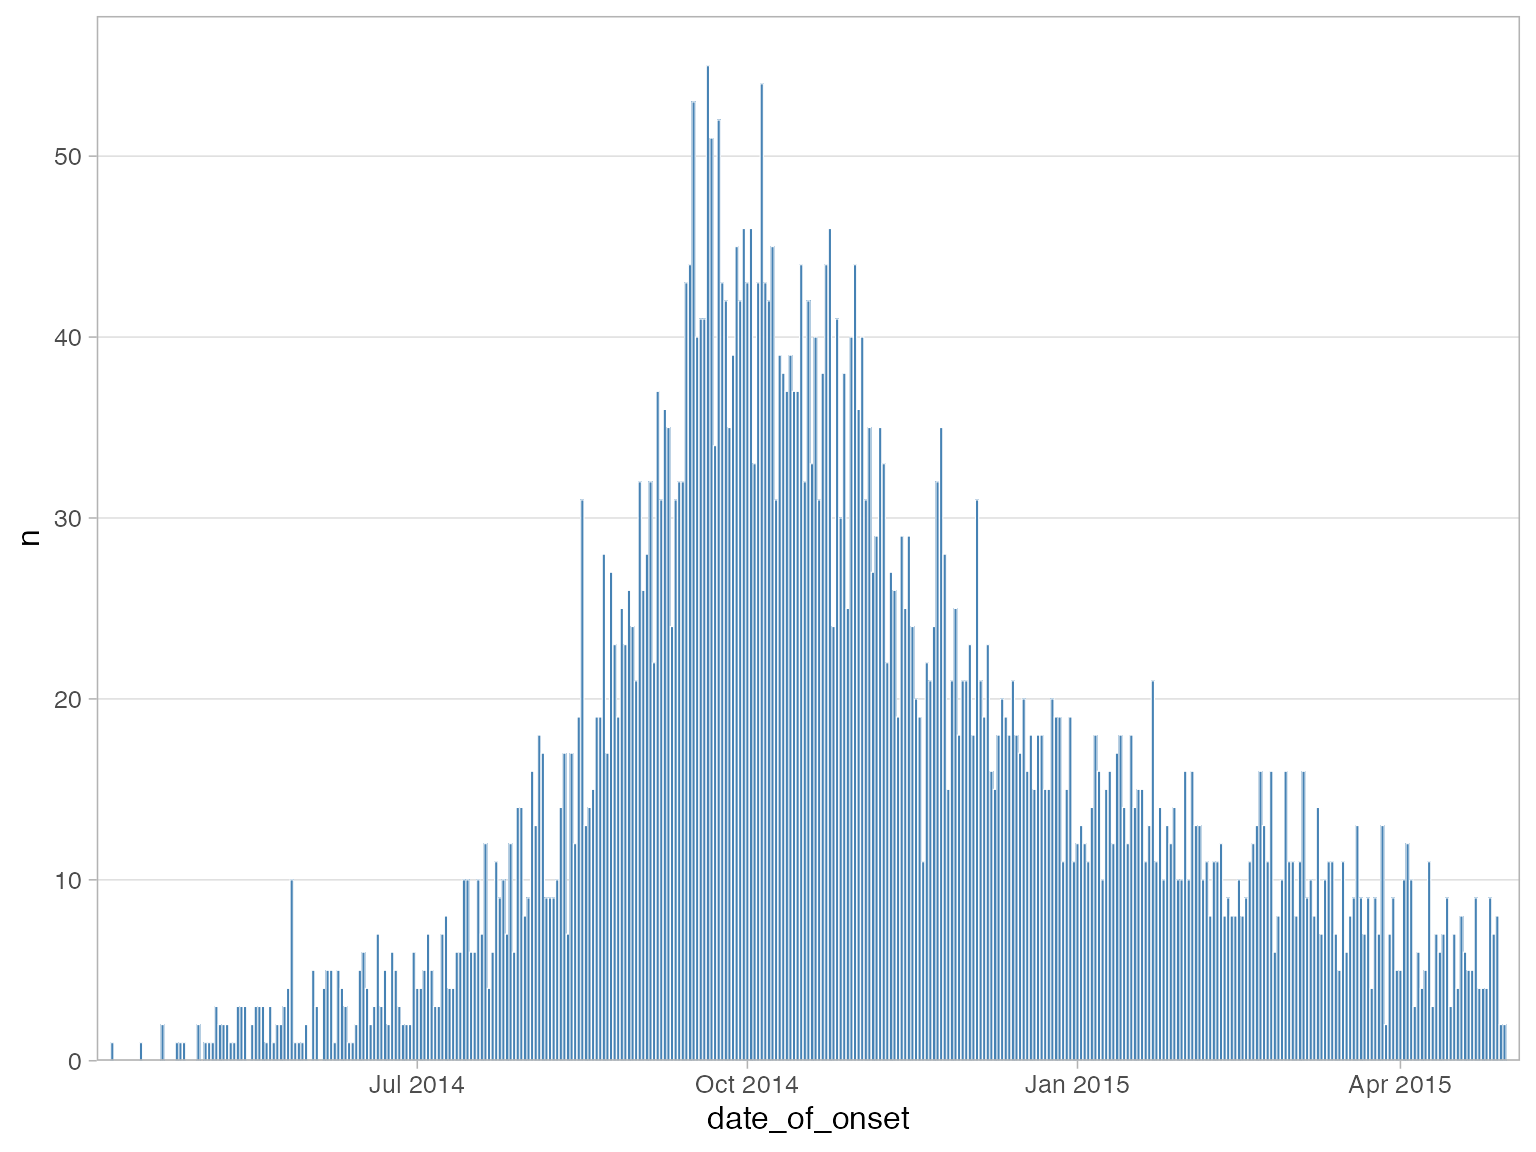
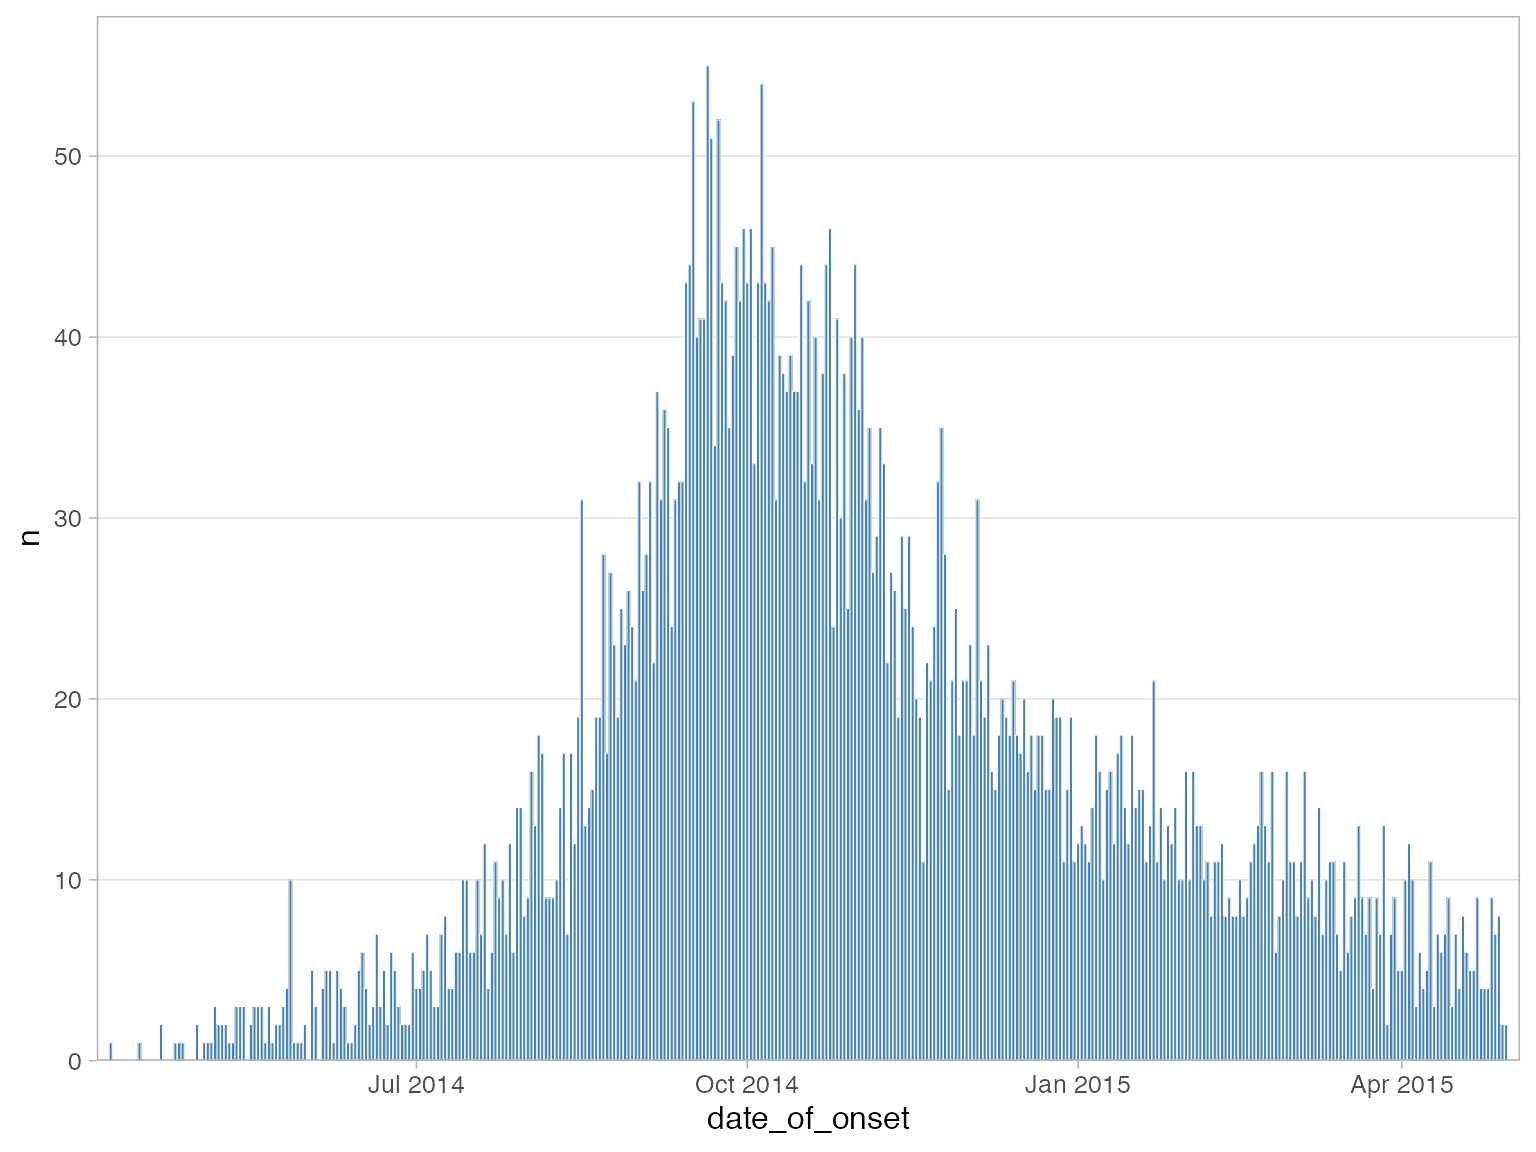
update epicurve vignette

Changed region(s): [[0.5625, 0.375, 1.0, 0.9688], [0.0938, 0.0938, 0.5, 0.9688]]

diff --git a/docs/articles/epicurves.html b/docs/articles/epicurves.html
@@ -127,44 +127,23 @@
   date_col <span class="op">=</span> <span class="va">date_of_onset</span>
 <span class="op">)</span></code></pre></div>
 <p><img src="epicurves_files/figure-html/unnamed-chunk-2-1.png" width="768"></p>
-<p>A note of default date labels: commonly epidemic curves are plotted by week, not day. As such, default date labels are set as ISO Week (00-53) at an interval of 2 weeks. This default is not appropriate for the daily data we have supplied, but we can fix this with built-in function arguments…</p>
-<p>Firstly we can add a <code>floor_date_week = TRUE</code> argument to group all dates to the first monday of the ISO Week they fall in (this is required for ggplot weekly tick marks to align properly with the columns). We also add some more informative axis labels:</p>
+<div id="working-with-dates-and-weeks" class="section level3">
+<h3 class="hasAnchor">
+<a href="#working-with-dates-and-weeks" class="anchor"></a>Working with dates and weeks</h3>
+<p>Commonly incidence is plotted by week, not day. Here we have daily data but we can ask <code>plot_epicurve</code> to re-calculate incidence by week instead by setting <code>floor_date_week = TRUE</code>. You can choose the first day of the week with <code>week_start</code> (defaults to 1 (Monday)). Finally we can set date axis labels to the week number rather than date.</p>
 <div class="sourceCode" id="cb4"><pre class="downlit sourceCode r">
 <code class="sourceCode R"><span class="fu"><a href="../reference/plot_epicurve.html">plot_epicurve</a></span><span class="op">(</span>
   <span class="va">df_ebola</span>, 
   date_col <span class="op">=</span> <span class="va">date_of_onset</span>, 
   floor_date_week <span class="op">=</span> <span class="cn">TRUE</span>, 
+  week_start <span class="op">=</span> <span class="fl">1</span>,
   label_weeks <span class="op">=</span> <span class="cn">TRUE</span>,
   date_lab <span class="op">=</span> <span class="st">"Week of onset"</span>, 
   y_lab <span class="op">=</span> <span class="st">"Incidence"</span>
 <span class="op">)</span></code></pre></div>
 <p><img src="epicurves_files/figure-html/unnamed-chunk-3-1.png" width="768"></p>
-<p>We can change the date break intervals with the <code>date_breaks</code> argument:</p>
-<div class="sourceCode" id="cb5"><pre class="downlit sourceCode r">
-<code class="sourceCode R"><span class="fu"><a href="../reference/plot_epicurve.html">plot_epicurve</a></span><span class="op">(</span>
-  <span class="va">df_ebola</span>, 
-  date_col <span class="op">=</span> <span class="va">date_of_onset</span>, 
-  floor_date_week <span class="op">=</span> <span class="cn">TRUE</span>, 
-  date_breaks <span class="op">=</span> <span class="st">"3 weeks"</span>, 
-  date_lab <span class="op">=</span> <span class="st">"Week of onset"</span>, 
-  y_lab <span class="op">=</span> <span class="st">"Incidence"</span>
-<span class="op">)</span></code></pre></div>
-<p><img src="epicurves_files/figure-html/unnamed-chunk-4-1.png" width="768"></p>
-<p>If you want to display more week labels but avoid overlapping, you can use the <code>dodge_x_labs</code> helper function:</p>
-<div class="sourceCode" id="cb6"><pre class="downlit sourceCode r">
-<code class="sourceCode R"><span class="fu"><a href="../reference/plot_epicurve.html">plot_epicurve</a></span><span class="op">(</span>
-  <span class="va">df_ebola</span>, 
-  date_col <span class="op">=</span> <span class="va">date_of_onset</span>, 
-  floor_date_week <span class="op">=</span> <span class="cn">TRUE</span>,
-  label_weeks <span class="op">=</span> <span class="cn">TRUE</span>,
-  date_breaks <span class="op">=</span> <span class="st">"1 week"</span>, 
-  date_lab <span class="op">=</span> <span class="st">"Week of onset"</span>, 
-  y_lab <span class="op">=</span> <span class="st">"Incidence"</span>
-<span class="op">)</span> <span class="op">+</span>
-  <span class="fu">dodge_x_labs</span><span class="op">(</span><span class="op">)</span></code></pre></div>
-<p><img src="epicurves_files/figure-html/unnamed-chunk-5-1.png" width="768"></p>
 <p>Since week numbers alone don’t give us any information about the year they relate to, it can be useful to add a secondary date axis to display more standard date labels. This can be done with the <code>sec_date_axis = TRUE</code> argument:</p>
-<div class="sourceCode" id="cb7"><pre class="downlit sourceCode r">
+<div class="sourceCode" id="cb5"><pre class="downlit sourceCode r">
 <code class="sourceCode R"><span class="fu"><a href="../reference/plot_epicurve.html">plot_epicurve</a></span><span class="op">(</span>
   <span class="va">df_ebola</span>, 
   date_col <span class="op">=</span> <span class="va">date_of_onset</span>, 
@@ -174,12 +153,55 @@
   date_lab <span class="op">=</span> <span class="st">"Week of onset"</span>, 
   y_lab <span class="op">=</span> <span class="st">"Incidence"</span>
 <span class="op">)</span></code></pre></div>
+<p><img src="epicurves_files/figure-html/unnamed-chunk-4-1.png" width="768"></p>
+<p>Change the date break intervals with the <code>date_breaks</code> argument:</p>
+<div class="sourceCode" id="cb6"><pre class="downlit sourceCode r">
+<code class="sourceCode R"><span class="fu"><a href="../reference/plot_epicurve.html">plot_epicurve</a></span><span class="op">(</span>
+  <span class="va">df_ebola</span>, 
+  date_col <span class="op">=</span> <span class="va">date_of_onset</span>, 
+  floor_date_week <span class="op">=</span> <span class="cn">TRUE</span>, 
+  label_weeks <span class="op">=</span> <span class="cn">TRUE</span>,
+  sec_date_axis <span class="op">=</span> <span class="cn">TRUE</span>,
+  date_breaks <span class="op">=</span> <span class="st">"6 weeks"</span>, 
+  date_lab <span class="op">=</span> <span class="st">"Week of onset"</span>, 
+  y_lab <span class="op">=</span> <span class="st">"Incidence"</span>
+<span class="op">)</span></code></pre></div>
+<p><img src="epicurves_files/figure-html/unnamed-chunk-5-1.png" width="768"></p>
+<p>If you want to display more week labels and avoid overlapping, you can use the <code>dodge_x_labs</code> helper function:</p>
+<div class="sourceCode" id="cb7"><pre class="downlit sourceCode r">
+<code class="sourceCode R"><span class="fu"><a href="../reference/plot_epicurve.html">plot_epicurve</a></span><span class="op">(</span>
+  <span class="va">df_ebola</span>, 
+  date_col <span class="op">=</span> <span class="va">date_of_onset</span>, 
+  floor_date_week <span class="op">=</span> <span class="cn">TRUE</span>,
+  label_weeks <span class="op">=</span> <span class="cn">TRUE</span>,
+  sec_date_axis <span class="op">=</span> <span class="cn">TRUE</span>,
+  date_breaks <span class="op">=</span> <span class="st">"1 week"</span>, 
+  date_lab <span class="op">=</span> <span class="st">"Week of onset"</span>, 
+  y_lab <span class="op">=</span> <span class="st">"Incidence"</span>
+<span class="op">)</span> <span class="op">+</span>
+  <span class="fu">dodge_x_labs</span><span class="op">(</span><span class="op">)</span></code></pre></div>
 <p><img src="epicurves_files/figure-html/unnamed-chunk-6-1.png" width="768"></p>
+<p>Sometimes during epidemics a week or two may pass with no cases reported. By default this would not appear on the epicurve as there is no data for the latest week. However you may want to explicitly show this on the graphic to effectively communicate that the data is up-to-date and there are 0 cases in the latest week(s). To do this add a <code>date_max</code> argument. This will force the date axis to extend to that point:</p>
+<div class="sourceCode" id="cb8"><pre class="downlit sourceCode r">
+<code class="sourceCode R"><span class="fu"><a href="../reference/plot_epicurve.html">plot_epicurve</a></span><span class="op">(</span>
+  <span class="va">df_ebola</span>, 
+  date_col <span class="op">=</span> <span class="va">date_of_onset</span>, 
+  floor_date_week <span class="op">=</span> <span class="cn">TRUE</span>,
+  label_weeks <span class="op">=</span> <span class="cn">TRUE</span>,
+  sec_date_axis <span class="op">=</span> <span class="cn">TRUE</span>,
+  date_max <span class="op">=</span> <span class="st">"2015-06-01"</span>, <span class="co"># extend axis to June 2015</span>
+  date_breaks <span class="op">=</span> <span class="st">"1 week"</span>, 
+  date_lab <span class="op">=</span> <span class="st">"Week of onset"</span>, 
+  y_lab <span class="op">=</span> <span class="st">"Incidence"</span>
+<span class="op">)</span> <span class="op">+</span>
+  <span class="fu">dodge_x_labs</span><span class="op">(</span><span class="op">)</span></code></pre></div>
+<p><img src="epicurves_files/figure-html/unnamed-chunk-7-1.png" width="768"></p>
+</div>
 <div id="grouping-data" class="section level3">
 <h3 class="hasAnchor">
 <a href="#grouping-data" class="anchor"></a>Grouping Data</h3>
 <p>You may want to visualise a third variable by filling the columns with varying colours. We can do this by adding a <code>group_col</code> argument.</p>
-<div class="sourceCode" id="cb8"><pre class="downlit sourceCode r">
+<div class="sourceCode" id="cb9"><pre class="downlit sourceCode r">
 <code class="sourceCode R"><span class="fu"><a href="../reference/plot_epicurve.html">plot_epicurve</a></span><span class="op">(</span>
   <span class="va">df_ebola</span>, 
   date_col <span class="op">=</span> <span class="va">date_of_onset</span>, 
@@ -191,9 +213,9 @@
   y_lab <span class="op">=</span> <span class="st">"Incidence"</span>,
   group_lab <span class="op">=</span> <span class="st">"Outcome"</span>
 <span class="op">)</span></code></pre></div>
-<p><img src="epicurves_files/figure-html/unnamed-chunk-7-1.png" width="768"></p>
+<p><img src="epicurves_files/figure-html/unnamed-chunk-8-1.png" width="768"></p>
 <p>By default, <code>NA</code>s will be plotted with a grey colour. You can change this with the <code>group_na_colour</code> argument. Alternatively, you may want to recode <code>NA</code>s in your data to a more meaningful label. Because the <code>outcome</code> column in this dataset is a factor, we can recode <code>NA</code>s with <code><a href="https://forcats.tidyverse.org/reference/fct_explicit_na.html">forcats::fct_explicit_na</a></code>.</p>
-<div class="sourceCode" id="cb9"><pre class="downlit sourceCode r">
+<div class="sourceCode" id="cb10"><pre class="downlit sourceCode r">
 <code class="sourceCode R"><span class="va">df_ebola</span> <span class="op">%&gt;%</span> 
   <span class="fu"><a href="https://dplyr.tidyverse.org/reference/mutate.html">mutate</a></span><span class="op">(</span>outcome <span class="op">=</span> <span class="fu">forcats</span><span class="fu">::</span><span class="fu"><a href="https://forcats.tidyverse.org/reference/fct_explicit_na.html">fct_explicit_na</a></span><span class="op">(</span><span class="va">outcome</span>, <span class="st">"Unknown"</span><span class="op">)</span><span class="op">)</span> <span class="op">%&gt;%</span> 
   <span class="fu"><a href="../reference/plot_epicurve.html">plot_epicurve</a></span><span class="op">(</span>
@@ -206,14 +228,14 @@
     y_lab <span class="op">=</span> <span class="st">"Incidence"</span>,
     group_lab <span class="op">=</span> <span class="st">"Outcome"</span>
   <span class="op">)</span></code></pre></div>
-<p><img src="epicurves_files/figure-html/unnamed-chunk-8-1.png" width="768"></p>
+<p><img src="epicurves_files/figure-html/unnamed-chunk-9-1.png" width="768"></p>
 <p>Note: here we ‘pipe’ the modified dataset into the first argument of the <code>plot_epicurve</code> function.</p>
 </div>
 <div id="adding-proportion-lines" class="section level3">
 <h3 class="hasAnchor">
 <a href="#adding-proportion-lines" class="anchor"></a>Adding proportion lines</h3>
 <p>It can be useful to visualise a proportion or ratio over time on top of the epicurve, case fatality ratio being a good example. This can be done with <code>plot_epicurve</code> by providing a proportion column along with the numerator and denominator values. To plot the CFR here we would use the <code>outcome</code> column with a numerator of <code>"Death"</code> and a denominator of <code><a href="https://rdrr.io/r/base/c.html">c("Death", "Recover")</a></code> (ignoring unknown outcomes in the calculation):</p>
-<div class="sourceCode" id="cb10"><pre class="downlit sourceCode r">
+<div class="sourceCode" id="cb11"><pre class="downlit sourceCode r">
 <code class="sourceCode R"><span class="va">df_ebola</span> <span class="op">%&gt;%</span> 
   <span class="fu"><a href="https://dplyr.tidyverse.org/reference/mutate.html">mutate</a></span><span class="op">(</span>outcome <span class="op">=</span> <span class="fu">forcats</span><span class="fu">::</span><span class="fu"><a href="https://forcats.tidyverse.org/reference/fct_explicit_na.html">fct_explicit_na</a></span><span class="op">(</span><span class="va">outcome</span>, <span class="st">"Unknown"</span><span class="op">)</span><span class="op">)</span> <span class="op">%&gt;%</span> 
   <span class="fu"><a href="../reference/plot_epicurve.html">plot_epicurve</a></span><span class="op">(</span>
@@ -230,14 +252,14 @@
     group_lab <span class="op">=</span> <span class="st">"Outcome"</span>,
     prop_lab <span class="op">=</span> <span class="st">"CFR"</span>
   <span class="op">)</span></code></pre></div>
-<p><img src="epicurves_files/figure-html/unnamed-chunk-9-1.png" width="768"></p>
+<p><img src="epicurves_files/figure-html/unnamed-chunk-10-1.png" width="768"></p>
 <p>See also: <code>prop_line_colour</code> and <code>prop_line_size</code> argument to modify the colour and line thickness, respectively.</p>
 </div>
 <div id="faceting" class="section level3">
 <h3 class="hasAnchor">
 <a href="#faceting" class="anchor"></a>Faceting</h3>
 <p>Facets can be used to split the epicurves by a categorical variable, often a location. In this case we can facet by <code>hospital</code> simply by adding a <code>facet_col = hospital</code> argument. We also set the facet columns to 2 and reduce the CFR line width due to smaller plot sizes:</p>
-<div class="sourceCode" id="cb11"><pre class="downlit sourceCode r">
+<div class="sourceCode" id="cb12"><pre class="downlit sourceCode r">
 <code class="sourceCode R"><span class="va">df_ebola</span> <span class="op">%&gt;%</span> 
   <span class="fu"><a href="https://dplyr.tidyverse.org/reference/mutate.html">mutate</a></span><span class="op">(</span>outcome <span class="op">=</span> <span class="fu">forcats</span><span class="fu">::</span><span class="fu"><a href="https://forcats.tidyverse.org/reference/fct_explicit_na.html">fct_explicit_na</a></span><span class="op">(</span><span class="va">outcome</span>, <span class="st">"Unknown"</span><span class="op">)</span><span class="op">)</span> <span class="op">%&gt;%</span> 
   <span class="fu"><a href="../reference/plot_epicurve.html">plot_epicurve</a></span><span class="op">(</span>
@@ -259,13 +281,13 @@
     group_lab <span class="op">=</span> <span class="st">"Outcome"</span>,
     prop_lab <span class="op">=</span> <span class="st">"CFR"</span>
   <span class="op">)</span></code></pre></div>
-<p><img src="epicurves_files/figure-html/unnamed-chunk-10-1.png" width="768"></p>
+<p><img src="epicurves_files/figure-html/unnamed-chunk-11-1.png" width="768"></p>
 </div>
 <div id="theming" class="section level3">
 <h3 class="hasAnchor">
 <a href="#theming" class="anchor"></a>Theming</h3>
 <p>Although <code>plot_epicurve</code> has built-in theme defaults, because the function returns a ggplot object, you can easily reset any default by adding your own themes, palettes etc to the object:</p>
-<div class="sourceCode" id="cb12"><pre class="downlit sourceCode r">
+<div class="sourceCode" id="cb13"><pre class="downlit sourceCode r">
 <code class="sourceCode R"><span class="kw"><a href="https://rdrr.io/r/base/library.html">library</a></span><span class="op">(</span><span class="va"><a href="http://github.com/hrbrmstr/hrbrthemes">hrbrthemes</a></span><span class="op">)</span> <span class="co"># install.packages("hrbrthemes") for additional ggplot2 themes</span>
 <span class="kw"><a href="https://rdrr.io/r/base/library.html">library</a></span><span class="op">(</span><span class="va"><a href="https://github.com/EmilHvitfeldt/paletteer">paletteer</a></span><span class="op">)</span> <span class="co"># install.packages("paletteer") access colour palettes from several different packages</span>
 
@@ -281,7 +303,7 @@
     prop_line_size <span class="op">=</span> <span class="fl">0.5</span>,
     floor_date_week <span class="op">=</span> <span class="cn">TRUE</span>, 
     label_weeks <span class="op">=</span> <span class="cn">TRUE</span>,
-    date_breaks <span class="op">=</span> <span class="st">"3 weeks"</span>, 
+    date_breaks <span class="op">=</span> <span class="st">"4 weeks"</span>, 
     sec_date_axis <span class="op">=</span> <span class="cn">TRUE</span>,
     date_lab <span class="op">=</span> <span class="st">"Week of onset"</span>, 
     y_lab <span class="op">=</span> <span class="st">"Incidence"</span>,
@@ -295,7 +317,7 @@
     panel.grid.minor.x <span class="op">=</span> <span class="fu"><a href="https://ggplot2.tidyverse.org/reference/element.html">element_blank</a></span><span class="op">(</span><span class="op">)</span>, 
     axis.title.y <span class="op">=</span> <span class="fu"><a href="https://ggplot2.tidyverse.org/reference/element.html">element_text</a></span><span class="op">(</span>hjust <span class="op">=</span> <span class="fl">.5</span><span class="op">)</span>
   <span class="op">)</span></code></pre></div>
-<p><img src="epicurves_files/figure-html/unnamed-chunk-11-1.png" width="768"></p>
+<p><img src="epicurves_files/figure-html/unnamed-chunk-12-1.png" width="768"></p>
 </div>
   </div>
 
